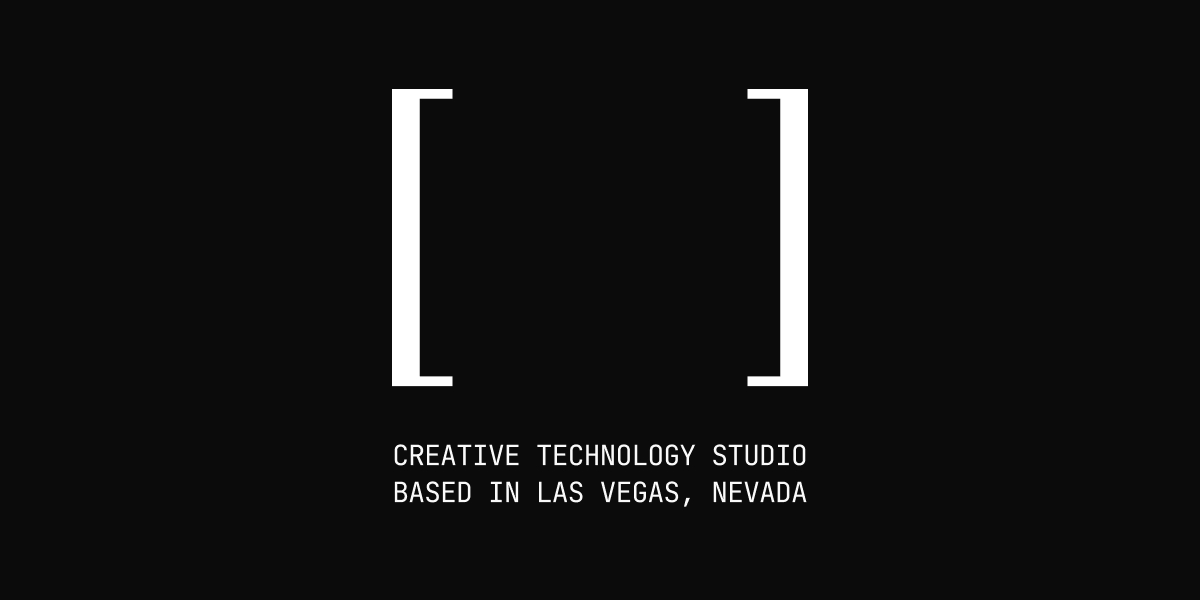
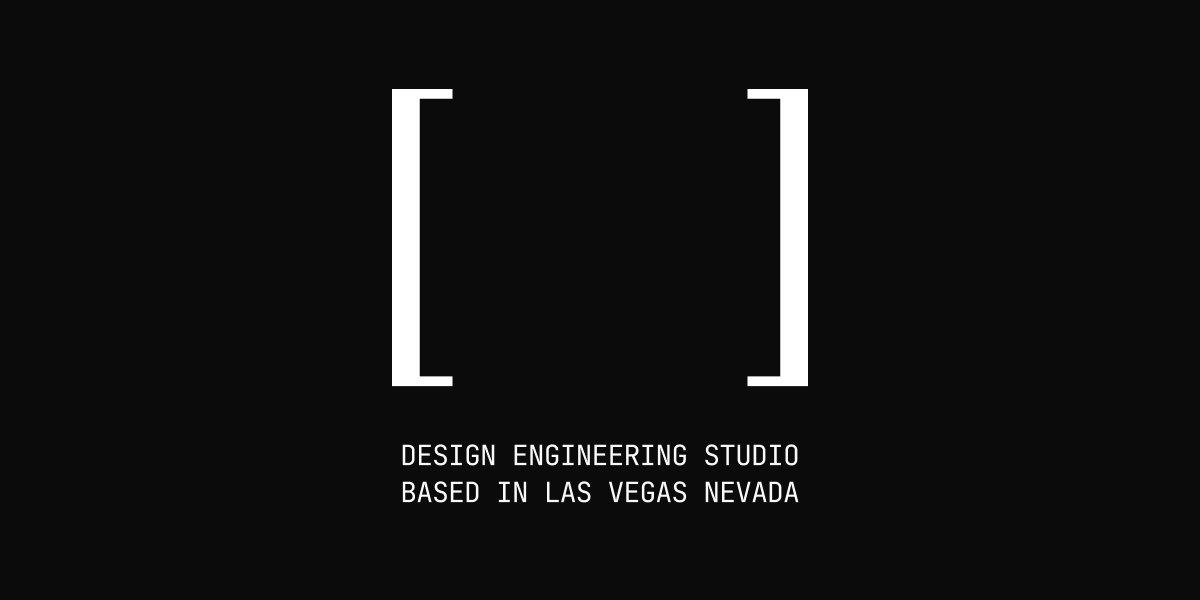
update copy

Changed region(s): [[0.3083, 0.72, 0.6783, 0.84]]

diff --git a/app/page.tsx b/app/page.tsx
@@ -16,7 +16,7 @@ import { GRID } from "./_lib/layout";
 import { projects } from "./_lib/projects";
 
 const HERO_TEXT =
-  "creative technology studio building prototypes, platforms, and production systems — designed and engineered end-to-end.";
+  "design engineering studio. we build the surface and the system underneath — interfaces, prototypes, and production frontends for product teams.";
 const heroWords = HERO_TEXT.split(/\s+/);
 
 export default function HomePage() {
@@ -112,7 +112,7 @@ export default function HomePage() {
 
       <main onClickCapture={dismissSettingsFromPage} className="flex-1">
         <section className={`pt-12 md:pt-24 lg:pt-32 ${GRID}`}>
-          <p className="col-span-12 lg:col-span-10 lg:col-start-2 font-ld text-2xl font-light leading-[1.35] text-pretty md:text-4xl md:leading-[1.3] tracking-tight">
+          <p className="col-span-12 font-ld text-2xl font-light leading-[1.35] text-pretty md:text-4xl md:leading-[1.3] tracking-snug">
             {heroWords.map((word, i) => (
               <Fragment key={i}>
                 <span data-anim="hero-word" className="inline-block">
@@ -142,8 +142,9 @@ export default function HomePage() {
               >
                 michael ciccarelli
               </a>{" "}
-              — design engineer. two decades across fintech, media, and
-              commerce. principal-led, with collaborators brought in as needed.
+              — two decades shipping software across fintech, media, and
+              commerce. client work alongside in-house products. principal-led,
+              collaborators as needed.
             </p>
           </div>
 
@@ -155,8 +156,9 @@ export default function HomePage() {
               inquiries
             </div>
             <p className="pt-8 font-ld text-base font-light leading-tight tracking-tight">
-              open to new projects. websites, mvps, prototypes, and platforms.
-              project work, retainers, or fractional engagements.
+              open to new work. product interfaces, design systems, marketing
+              sites, and zero-to-one builds. project-based, retainer, or
+              embedded engagements.
             </p>
             <InquiryCTA />
           </div>

diff --git a/app/layout.tsx b/app/layout.tsx
@@ -30,9 +30,9 @@ const ld = localFont({
   display: "swap",
 });
 
-const siteTitle = "third index — creative technology studio";
+const siteTitle = "third index — design engineering studio";
 const siteDescription =
-  "Creative technology studio led by Michael Ciccarelli. Prototypes, platforms, and production systems — engineered and shipped end-to-end. Based in Las Vegas, working worldwide.";
+  "Design engineering studio led by Michael Ciccarelli. Prototypes, platforms, and production systems — engineered and shipped end-to-end. Based in Las Vegas, working worldwide.";
 
 const siteUrl =
   process.env.NODE_ENV === "production"
@@ -65,7 +65,7 @@ export const metadata: Metadata = {
         url: "/og.jpg",
         width: 1200,
         height: 600,
-        alt: "third index — creative technology studio",
+        alt: "third index — design engineering studio",
       },
     ],
   },

diff --git a/app/_components/WorkInquiryCTA.tsx b/app/_components/WorkInquiryCTA.tsx
@@ -23,8 +23,8 @@ export function WorkInquiryCTA() {
               working together
             </p>
             <p className="pt-8 font-ld text-lg font-light leading-tight tracking-tight md:text-xl">
-              independent by default — embedded when needed, with a small team
-              for larger scopes.
+              share a brief, a budget range, and a timeline. we'll reply within
+              two business days.
             </p>
             <div className="flex flex-wrap items-center gap-3 pt-8">
               <button